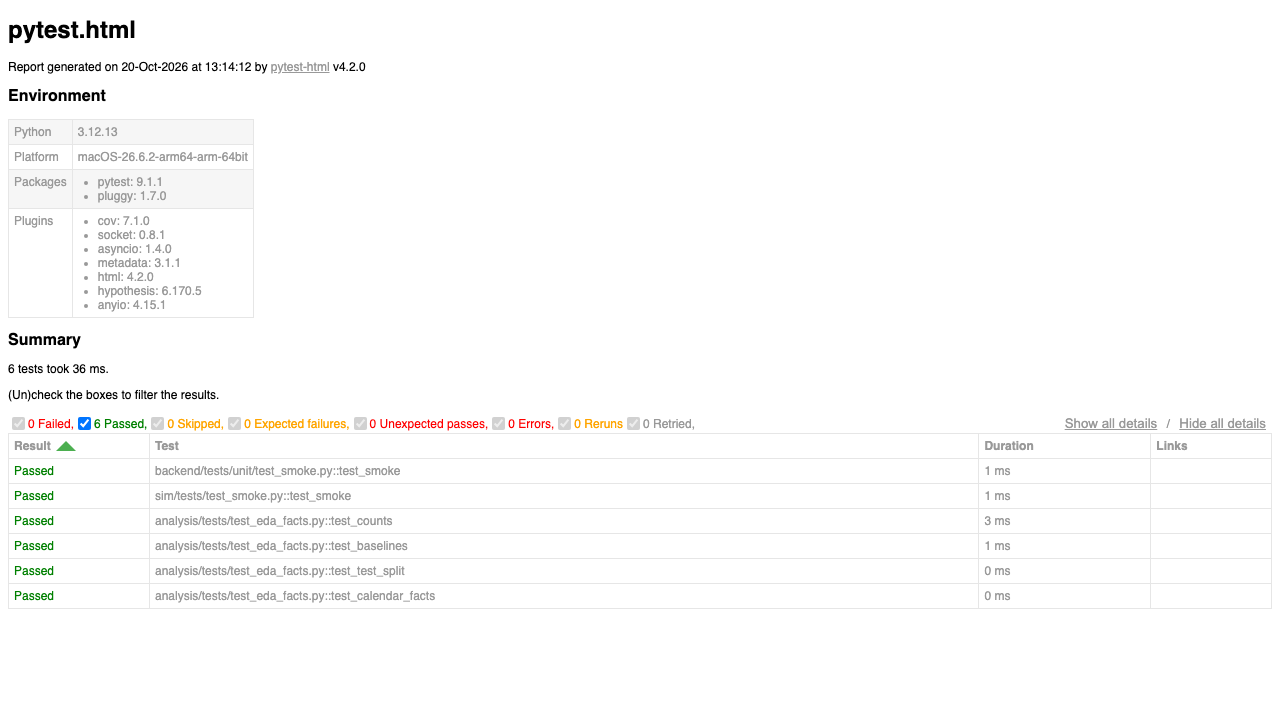
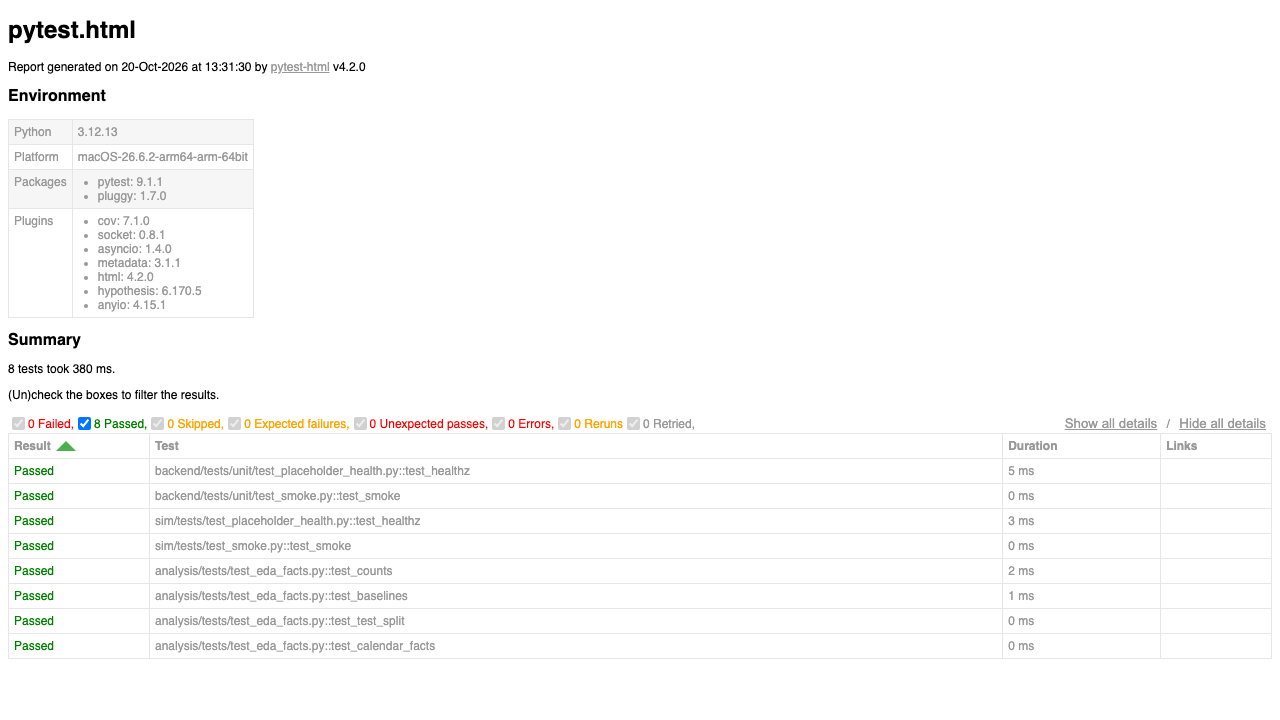
fix: address Phase 0 review, add placeholder health apps, compose hardening and gate report

diff --git a/e2e/playwright.config.ts b/e2e/playwright.config.ts
@@ -11,5 +11,14 @@ export default defineConfig({
     baseURL: process.env.BASE_URL ?? 'http://localhost:3000',
     trace: 'retain-on-failure',
   },
+  // Starts the production frontend unless something already serves BASE_URL (gate/CI start the full stack later).
+  webServer: process.env.BASE_URL
+    ? undefined
+    : {
+        command: 'npm --prefix ../frontend run build && npm --prefix ../frontend run start',
+        url: 'http://localhost:3000',
+        reuseExistingServer: true,
+        timeout: 180_000,
+      },
   projects: [{ name: 'chromium', use: { ...devices['Desktop Chrome'] } }],
 });

diff --git a/e2e/support/evidence.ts b/e2e/support/evidence.ts
@@ -38,7 +38,7 @@ function key(info: ShotInfo): string {
 }
 
 function evidenceEnabled(): boolean {
-  return process.env.EVIDENCE_DISABLED !== '1';
+  return process.env.EVIDENCE_DISABLED !== '1' && process.env.EVIDENCE_PHASE !== 'regression';
 }
 
 export async function shot(page: ShotPage, info: ShotInfo, idx: number, step: string): Promise<string> {

diff --git a/scripts/evidence_index.py b/scripts/evidence_index.py
@@ -69,11 +69,19 @@ def main(argv=None):
     pdir = Path(args.root) / args.phase
     optional = set(entry.get("optional_flows", []))
     rows, missing = [], []
+    # Keep hand-written "What it proves" text from a previous run.
+    kept = {}
+    prev = pdir / "REPORT.md"
+    if prev.exists():
+        for line in prev.read_text().splitlines():
+            cells = [c.strip() for c in line.strip().strip("|").split("|")]
+            if len(cells) == 3 and cells[2] not in ("", "<fill in>", "What it proves", "---", "skipped"):
+                kept[cells[0]] = cells[2]
     for flow in entry["evidence_flows"]:
         pngs = sorted((pdir / flow).glob("*.png")) if (pdir / flow).is_dir() else []
         if pngs:
             names = ", ".join(p.name for p in pngs)
-            rows.append(f"| {flow} | {len(pngs)}: {names} | <fill in> |")
+            rows.append(f"| {flow} | {len(pngs)}: {names} | {kept.get(flow, "<fill in>")} |")
         elif flow in optional:
             rows.append(f"| {flow} | none (optional, skipped) | skipped |")
         else:

diff --git a/backend/sentinel/api/main.py b/backend/sentinel/api/main.py
@@ -1,0 +1,10 @@
+"""Placeholder API so the image starts; Phase 6 replaces this with the real app."""
+
+from fastapi import FastAPI
+
+app = FastAPI(title="sentinel-api")
+
+
+@app.get("/healthz")
+def healthz() -> dict[str, str]:
+    return {"status": "ok", "service": "sentinel-api"}

diff --git a/backend/tests/unit/test_placeholder_health.py b/backend/tests/unit/test_placeholder_health.py
@@ -1,0 +1,10 @@
+import pytest
+from fastapi.testclient import TestClient
+from sentinel.api.main import app
+
+pytestmark = pytest.mark.unit
+
+
+def test_healthz():
+    r = TestClient(app).get("/healthz")
+    assert r.status_code == 200 and r.json()["service"] == "sentinel-api"

diff --git a/sim/finpay_sim/app.py b/sim/finpay_sim/app.py
@@ -1,0 +1,10 @@
+"""Placeholder sim so the image starts; Phase 5 replaces this with finpay-sim."""
+
+from fastapi import FastAPI
+
+app = FastAPI(title="finpay-sim")
+
+
+@app.get("/healthz")
+def healthz() -> dict[str, str]:
+    return {"status": "ok", "service": "finpay-sim"}

diff --git a/sim/tests/test_placeholder_health.py b/sim/tests/test_placeholder_health.py
@@ -1,0 +1,10 @@
+import pytest
+from fastapi.testclient import TestClient
+from finpay_sim.app import app
+
+pytestmark = pytest.mark.unit
+
+
+def test_healthz():
+    r = TestClient(app).get("/healthz")
+    assert r.status_code == 200 and r.json()["service"] == "finpay-sim"

diff --git a/test-evidence/phase-00-foundation/REPORT.md b/test-evidence/phase-00-foundation/REPORT.md
@@ -1,0 +1,41 @@
+# Phase 00 (foundation): gate record
+Commit: <sha> · Date: 2026-10-20 · Branch: phase/00-foundation · Tag: phase-00 · PR: <url>
+
+## Commands run (verbatim) and results
+| Command | pass / fail / skip |
+|---|---|
+| `BASE_URL=http://127.0.0.1:3000 bash scripts/gate.sh 00` (against the compose stack) | 12 of 12 automated steps PASS: ruff check/format, pyright, eslint, tsc (frontend, e2e), pytest unit (8 passed) and integration/e2e_http (none yet, exit 5 mapped to pass), vitest (7 passed), Playwright x2 (flake check; 2 passed, 1 skipped on the repeat run because the report spec runs once), evidence index |
+| `docker compose build` | pass: sentinel-api, finpay-sim, sentinel-web |
+| `docker compose up -d` + curl `/healthz` on :8080 and :8081, `/` and `/api/healthz` on :3000 | pass: both services report ok; web returns 200; the proxy reaches the API through the containers |
+| OpenAI key check in the web container | 0 OPENAI variables present (key goes to sentinel-api only) |
+
+## Evidence flows
+<!-- evidence:start -->
+| Flow | Screenshots | What it proves |
+|---|---|---|
+| harness-smoke | 1: 01-home.png | The real Next.js page renders "Sentinel" with an icon+text status badge, and axe finds no serious violations |
+| pytest-report | 1: 01-report.png | The pytest HTML report renders and is captured by the evidence pipeline |
+| eda-facts | 1: 01-rule-baselines.png | The standalone EDA reproduces the PS-02 baselines: B0 0/28, B1 28 TP / 22 FP at 0.56 precision |
+<!-- evidence:end -->
+
+## Exit criteria
+- [x] `make gate PHASE=00` automated steps green
+- [x] All three images build and start under compose (placeholder `/healthz` apps for api and sim)
+- [ ] CI green on the PR (checked after push)
+
+## Interface changes since last freeze
+
+## Skipped / deferred (with reason)
+- Pub/Sub and BigQuery emulators in compose: planned for Phase 8.
+- `gcloud` not installed; manual task 0.11 pending (user). Not needed until Phase 8b.
+
+## Review findings and resolutions
+Reviewer sub-agent (code-review) findings, all verified before fixing:
+- Blocker: regression Playwright runs wrote evidence (`EVIDENCE_PHASE=regression`). Fixed in `e2e/support/evidence.ts`.
+- Blocker: CI/gate had no frontend server. Added a Playwright `webServer` (skipped when `BASE_URL` is set).
+- Major: `backend/data` and `backend/prompts` missing, so the image build failed (also seen in a real build). Added with `.gitkeep`.
+- Major: sim lacked uvicorn. Switched to `fastapi[standard]` and added placeholder apps.
+- Major: `evidence_index.py` wiped hand-written text. Now preserved.
+- Major: over-broad `.claude/settings.json` allowlist. Narrowed (no `gh pr merge`, no arbitrary `uv`/`npm`/`docker compose` subcommands).
+- Minor: compose passed the key to every service and bound to 0.0.0.0. Key now goes to sentinel-api only; ports bind to 127.0.0.1.
+- Minor, left as is: duplicate plan copies under `docs/`; Node version tie between `.nvmrc` and CI.
